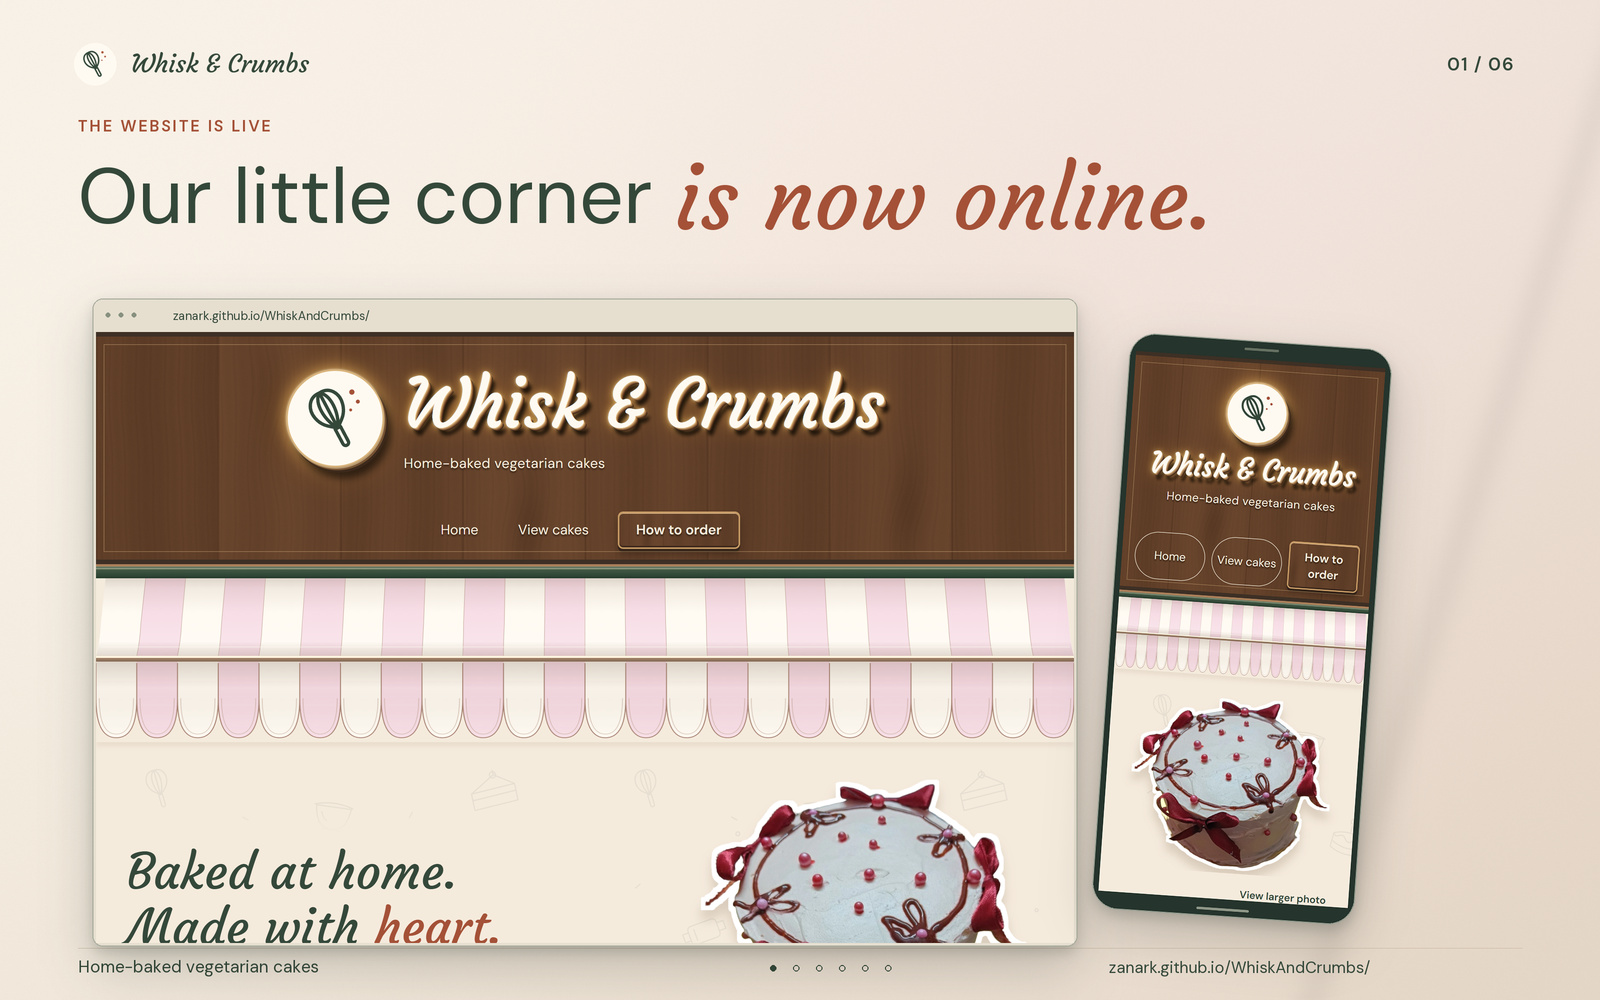
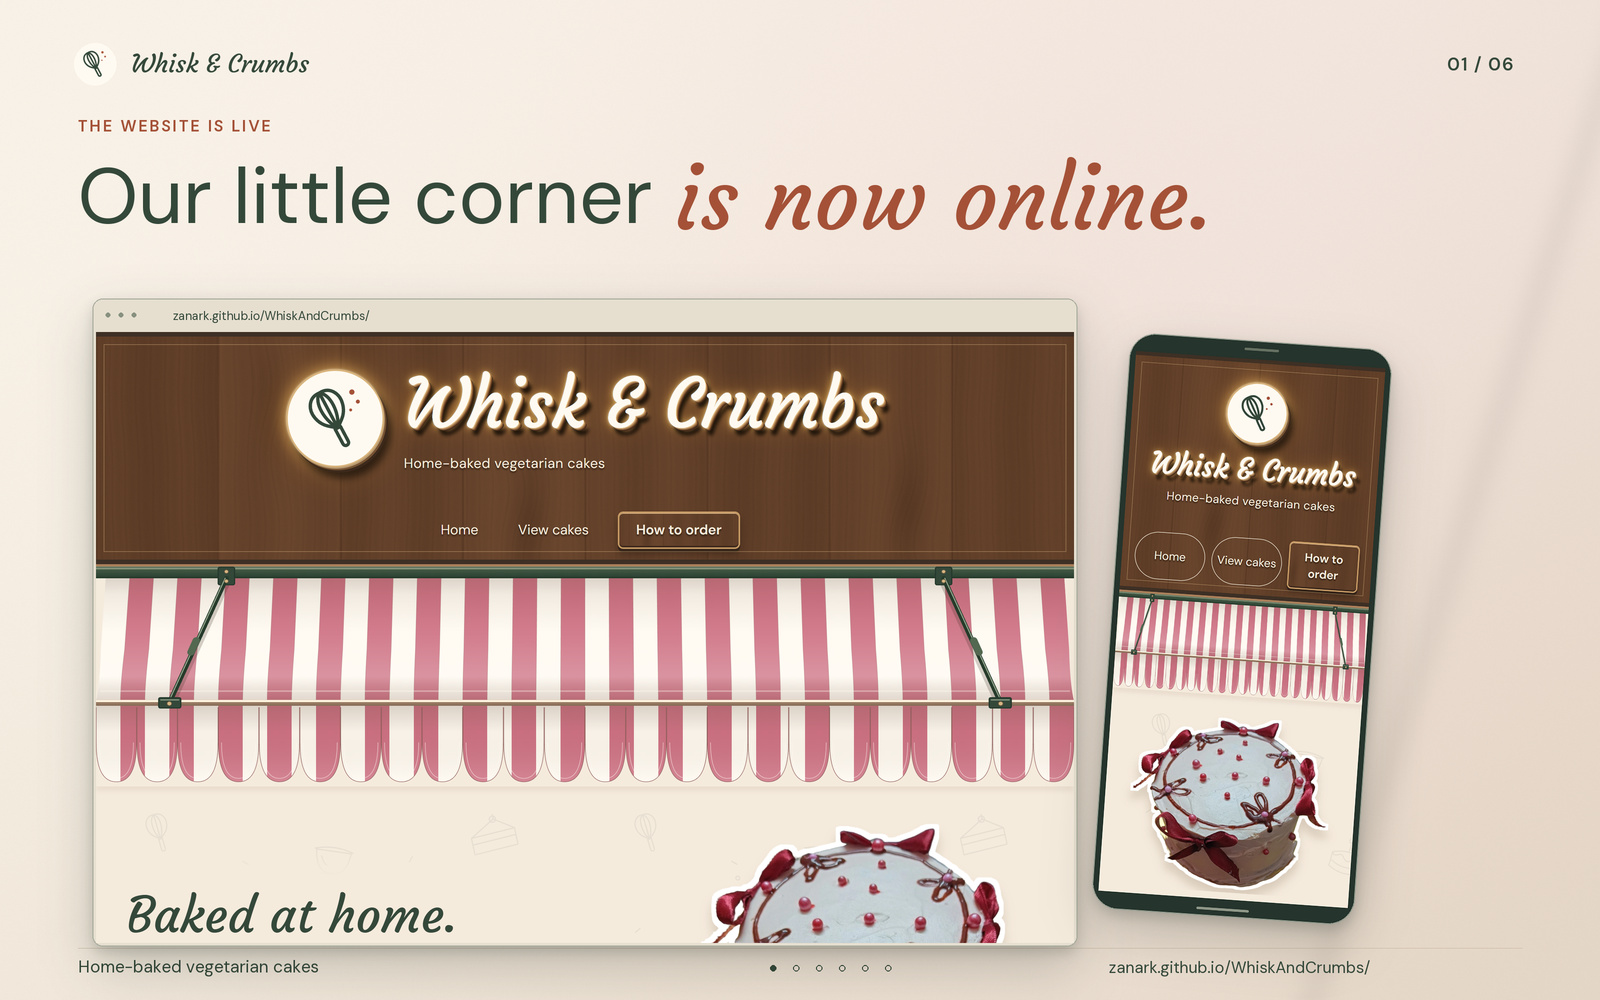
Add supported rose-striped canopy and optional phone tilt
Lengthen the sloping cloth, add forty rose/cream stripes and separate rigid tension supports, and correct alpha-edge filtering. Offer permission-gated calibrated phone look-around with safe cleanup and fallbacks. Preserve artwork, notebook and messaging data while refreshing the launch images.

Copilot-Session: 065222f9-e445-4b98-a549-e6948580c174

Changed region(s): [[0.0625, 0.558, 0.875, 0.961], [0.0625, 0.837, 0.3125, 0.961]]

diff --git a/site/index.html b/site/index.html
@@ -22,32 +22,32 @@
   <link rel="icon" href="assets/favicon.svg" type="image/svg+xml" sizes="any">
   <link rel="apple-touch-icon" href="assets/apple-touch-icon.png" sizes="180x180">
   <link rel="preload" href="assets/fonts/courgette-regular.ttf" as="font" type="font/ttf" crossorigin>
-  <link rel="stylesheet" href="styles.css?v=f5adedeeb7c7">
-  <link rel="stylesheet" href="entrance-shop.css?v=f5adedeeb7c7">
-  <link rel="stylesheet" href="cozy-bakery.css?v=f5adedeeb7c7">
-  <link rel="stylesheet" href="readability.css?v=f5adedeeb7c7">
-  <link rel="modulepreload" href="entrance.mjs?v=f5adedeeb7c7">
-  <link rel="modulepreload" href="bell.mjs?v=f5adedeeb7c7">
-  <link rel="modulepreload" href="notebooks.mjs?v=f5adedeeb7c7">
-  <script type="module" src="main.mjs?v=f5adedeeb7c7"></script>
+  <link rel="stylesheet" href="styles.css?v=ff6086d91be6">
+  <link rel="stylesheet" href="entrance-shop.css?v=ff6086d91be6">
+  <link rel="stylesheet" href="cozy-bakery.css?v=ff6086d91be6">
+  <link rel="stylesheet" href="readability.css?v=ff6086d91be6">
+  <link rel="modulepreload" href="entrance.mjs?v=ff6086d91be6">
+  <link rel="modulepreload" href="bell.mjs?v=ff6086d91be6">
+  <link rel="modulepreload" href="notebooks.mjs?v=ff6086d91be6">
+  <script type="module" src="main.mjs?v=ff6086d91be6"></script>
 </head>
 <body>
   <a class="skip-link" href="#main">Skip to cakes and ordering</a>
   <div id="bakery-entrance" class="bakery-entrance" data-state="pending" data-audio="waiting">
     <div class="entrance-art" aria-hidden="true">
       <div class="entrance-backdrop"></div>
-      <div class="entrance-shop" style="--facade-plaster:url('assets/bakery-facade-plaster.webp?v=f5adedeeb7c7');--sign-wood:url('assets/bakery-sign-wood.webp?v=f5adedeeb7c7')">
+      <div class="entrance-shop" style="--facade-plaster:url('assets/bakery-facade-plaster.webp?v=ff6086d91be6');--sign-wood:url('assets/bakery-sign-wood.webp?v=ff6086d91be6')">
         <div class="entrance-masonry"></div>
         <picture class="entrance-upper-storey">
-          <source media="(max-width: 600px)" srcset="assets/bakery-facade-upper-mobile.svg?v=f5adedeeb7c7">
-          <img src="assets/bakery-facade-upper.svg?v=f5adedeeb7c7" width="1200" height="360" alt="" decoding="async">
+          <source media="(max-width: 600px)" srcset="assets/bakery-facade-upper-mobile.svg?v=ff6086d91be6">
+          <img src="assets/bakery-facade-upper.svg?v=ff6086d91be6" width="1200" height="360" alt="" decoding="async">
         </picture>
         <div class="entrance-sign" data-brand="Whisk &amp; Crumbs">
           <img class="entrance-sign-mark" src="assets/whisk-and-crumbs-mark.svg" width="128" height="128" alt="">
           <span class="entrance-sign-copy"><span class="entrance-wordmark">Whisk &amp; Crumbs</span><span class="entrance-descriptor">Home-baked vegetarian cakes</span></span>
         </div>
         <span class="entrance-cornice"></span>
-        <div class="entrance-awning"><img src="assets/bakery-awning.svg?v=f5adedeeb7c7" width="1200" height="240" alt="" decoding="async"></div>
+        <div class="entrance-awning"><img src="assets/bakery-awning.svg?v=ff6086d91be6" width="1200" height="300" alt="" decoding="async"><span class="awning-supports" style="background-image:url('assets/bakery-awning-supports.svg?v=ff6086d91be6')"></span></div>
         <span class="entrance-pier entrance-pier-left"></span><span class="entrance-pier entrance-pier-right"></span>
         <div class="entrance-doorway">
           <div class="entrance-bell-mount"></div>
@@ -61,9 +61,9 @@
           <div class="entrance-doorframe">
             <div class="entrance-room">
               <picture class="entrance-room-poster">
-                <source media="(max-aspect-ratio: 4/5)" srcset="assets/bakery-interior-portrait.webp?v=f5adedeeb7c7">
-                <source media="(max-height: 600px)" srcset="assets/bakery-interior-short.webp?v=f5adedeeb7c7">
-                <img src="assets/bakery-interior-wide.webp?v=f5adedeeb7c7" width="1600" height="1000" alt="" decoding="async">
+                <source media="(max-aspect-ratio: 4/5)" srcset="assets/bakery-interior-portrait.webp?v=ff6086d91be6">
+                <source media="(max-height: 600px)" srcset="assets/bakery-interior-short.webp?v=ff6086d91be6">
+                <img src="assets/bakery-interior-wide.webp?v=ff6086d91be6" width="1600" height="1000" alt="" decoding="async">
               </picture>
             </div>
             <div class="entrance-fixed-bay entrance-fixed-bay-left"><span class="entrance-display-glass"></span><span class="entrance-bay-panel"></span></div>
@@ -93,17 +93,21 @@
         </div>
         <span class="entrance-threshold"></span>
         <span class="entrance-step"></span>
-        <img class="entrance-pavement" src="assets/bakery-facade-ground.svg?v=f5adedeeb7c7" width="1200" height="140" alt="" decoding="async">
+        <img class="entrance-pavement" src="assets/bakery-facade-ground.svg?v=ff6086d91be6" width="1200" height="140" alt="" decoding="async">
       </div>
     </div>
     <a id="entrance-enter" class="entrance-enter" href="#home" aria-label="Open the bakery doors and enter">
       <span>Click anywhere to enter</span>
     </a>
-    <a id="entrance-skip" class="entrance-skip" href="#home">Skip entrance</a>
+    <div class="entrance-tools">
+      <button id="entrance-motion" class="entrance-motion" type="button" aria-pressed="false" aria-describedby="entrance-motion-status" hidden>Phone tilt</button>
+      <a id="entrance-skip" class="entrance-skip" href="#home">Skip entrance</a>
+    </div>
+    <p id="entrance-motion-status" class="visually-hidden" role="status" aria-live="polite"></p>
   </div>
   <noscript><style>.bakery-entrance { display: none !important; }</style></noscript>
   <header class="site-header">
-    <div class="shop-sign" style="--sign-wood:url('assets/bakery-sign-wood.webp?v=f5adedeeb7c7')">
+    <div class="shop-sign" style="--sign-wood:url('assets/bakery-sign-wood.webp?v=ff6086d91be6')">
       <div class="container header-inner">
         <a class="brand" href="#home" aria-label="Whisk &amp; Crumbs - home">
           <img src="assets/whisk-and-crumbs-mark.svg" width="128" height="128" alt="">
@@ -117,7 +121,7 @@
       </nav>
     </div>
   </header>
-  <div class="site-awning" aria-hidden="true"><img src="assets/bakery-awning.svg?v=f5adedeeb7c7" width="1200" height="240" alt="" decoding="async"></div>
+  <div class="site-awning" aria-hidden="true"><img src="assets/bakery-awning.svg?v=ff6086d91be6" width="1200" height="300" alt="" decoding="async"><span class="awning-supports" style="background-image:url('assets/bakery-awning-supports.svg?v=ff6086d91be6')"></span></div>
 
   <main id="main" tabindex="-1">
     <section class="hero-section" id="home" aria-labelledby="hero-title">
@@ -720,7 +724,7 @@
         </div>
       </div>
     </section>
-    <div class="bakery-shelf" aria-hidden="true"><img src="assets/bakery-shelf.svg?v=f5adedeeb7c7" width="960" height="120" alt="" loading="lazy" decoding="async"></div>
+    <div class="bakery-shelf" aria-hidden="true"><img src="assets/bakery-shelf.svg?v=ff6086d91be6" width="960" height="120" alt="" loading="lazy" decoding="async"></div>
   </main>
 
   <footer class="container site-footer">

diff --git a/site/entrance-shop.css b/site/entrance-shop.css
@@ -1,9 +1,10 @@
-.site-awning { --awning-fabric-ready: 1; position: relative; z-index: 1; width: 100%; height: clamp(120px, 18vw, 270px); background: var(--cream); pointer-events: none; }
+.site-awning { --awning-fabric-ready: 1; position: relative; z-index: 1; width: 100%; height: clamp(150px, 22.5vw, 337.5px); background: var(--cream); pointer-events: none; }
 .site-awning img { width: 100%; max-width: none; height: 100%; object-fit: fill; }
 .awning-fabric { position: absolute; inset: -20px 0; width: 100%; height: calc(100% + 40px); pointer-events: none; }
 .awning-fixed-rail { position: absolute; inset: 0; background-size: 100% 100%; background-repeat: no-repeat; pointer-events: none; }
 .site-awning.is-fabric-active > img { opacity: 0; }
-.entrance-art { padding: 82px clamp(12px, 4vw, 72px) 100px; }
+.awning-supports { position: absolute; z-index: 3; inset: 0; background-size: 100% 100%; background-repeat: no-repeat; pointer-events: none; }
+.entrance-art { padding: max(82px, var(--entrance-tools-space, 0px)) clamp(12px, 4vw, 72px) 100px; }
 .entrance-backdrop { inset: 0; transform: none; transition: none; background: radial-gradient(ellipse at 24% 18%, #fff8e9, transparent 62%), linear-gradient(#f5ebdd 72%, #e6dac3); }
 .entrance-shop { display: block; width: min(1100px, 100%); height: min(790px, 100%); transform: none; transition: none; isolation: isolate; container-type: size; }
 .bakery-entrance.is-entering .entrance-shop { animation: none; }
@@ -63,7 +64,7 @@
 .entrance-step { position: absolute; z-index: 3; left: 8%; right: 8%; bottom: 6.7%; height: 2.5%; background: linear-gradient(#e6d8bc, #cfbd9f 48%, #a89172 52%, #b9a283); border: 1px solid #b8a180; box-shadow: 0 4px 3px rgb(55 45 32 / 18%); }
 .entrance-pavement { position: absolute; z-index: 2; bottom: 0; left: 0; width: 100%; height: 14%; object-fit: fill; pointer-events: none; }
 @media (max-width: 600px) {
-  .entrance-art { padding: max(84px, calc(2.5rem + 16px)) 12px max(112px, calc(6.25rem - 12px)); }
+  .entrance-art { padding: max(84px, calc(2.5rem + 16px), var(--entrance-tools-space, 0px)) 12px max(112px, calc(6.25rem - 12px)); }
   .entrance-shop { width: 100%; height: min(770px, 100%); }
   .entrance-upper-storey { height: 27%; }
   .entrance-masonry { top: 24%; left: 3%; right: 3%; }
@@ -80,7 +81,7 @@
   .entrance-door-right { right: 0; }
   .entrance-fixed-bay { display: none; }
   .entrance-glass { inset-inline: 5px; border-radius: 6px 6px 2px 2px; }
-  .entrance-open-sign { width: min(96px, calc(100% - 12px)); }
+  .entrance-open-sign { width: min(90px, calc(100% - 12px)); }
   .entrance-bell { width: 32px; height: 34px; left: calc(50% - 16px); top: 0; }
   .entrance-pier { top: 40%; width: 3%; }
   .entrance-pier-left { left: 3%; }
@@ -89,7 +90,7 @@
   .entrance-step { left: 3%; right: 3%; }
 }
 @media (max-height: 600px) {
-  .entrance-art { padding-top: max(74px, calc(2.5rem + 16px)); padding-bottom: 104px; }
+  .entrance-art { padding-top: max(74px, calc(2.5rem + 16px), var(--entrance-tools-space, 0px)); padding-bottom: 104px; }
   .entrance-shop { width: min(800px, 100%); }
   .entrance-upper-storey { height: 24%; }
   .entrance-sign { top: 23%; height: 17%; padding-block: 4px; }
@@ -132,8 +133,11 @@
   .entrance-open-sign .open-sign-cord { height: 5px; }
   .open-sign-board { padding-block: 0; }
 }
-@media (prefers-reduced-motion: reduce), (forced-colors: active), (hover: none) {
+@media (prefers-reduced-motion: reduce), (forced-colors: active) {
   .entrance-room-poster { transform: none; transition: none; }
+}
+@media (hover: none) {
+  .bakery-entrance:not([data-tilt-view="on"]) .entrance-room-poster { transform: none; transition: none; }
 }
 @media print {
   .site-awning, .bakery-entrance { display: none; }

diff --git a/site/styles.css b/site/styles.css
@@ -360,8 +360,11 @@ body.has-notebook-dialog .mobile-enquire { display: none; }
 .entrance-enter { position: absolute; inset: 0; z-index: 3; display: flex; align-items: flex-end; justify-content: center; padding: 24px; }
 .entrance-enter > span { display: inline-flex; align-items: center; justify-content: center; min-height: 52px; padding: 12px 24px; border: 1px solid var(--green); border-radius: 999px; background: var(--paper); color: var(--green); box-shadow: 0 5px 0 rgb(52 72 58 / 13%); font: 600 1rem/1.4 var(--sans); }
 .entrance-enter:hover > span { background: var(--wash); }
-.entrance-skip { position: absolute; z-index: 4; top: 18px; right: 20px; display: inline-flex; align-items: center; justify-content: center; min-height: 48px; padding: 11px 18px; border: 1px solid var(--green); border-radius: 999px; background: var(--paper); color: var(--green); font: 600 1rem/1.4 var(--sans); }
-.entrance-skip:hover { background: var(--wash); }
+.entrance-tools { position: absolute; z-index: 4; top: 18px; left: 20px; right: 20px; display: flex; flex-wrap: wrap; justify-content: flex-end; align-items: flex-start; gap: 8px; pointer-events: none; }
+.entrance-skip, .entrance-motion { display: inline-flex; align-items: center; justify-content: center; max-width: 100%; min-height: 48px; padding: 11px 18px; border: 1px solid var(--green); border-radius: 999px; background: var(--paper); color: var(--green); font: 600 1rem/1.4 var(--sans); pointer-events: auto; }
+.entrance-motion { margin-right: auto; }
+.entrance-motion[aria-pressed="true"] { background: var(--green); color: var(--paper); }
+.entrance-skip:hover, .entrance-motion:not([aria-pressed="true"]):hover { background: var(--wash); }
 html:has(:target) .bakery-entrance { display: none; }
 .bakery-entrance.is-entering { animation: entrance-dismiss .12s linear 1.68s forwards; }
 .bakery-entrance.is-entering .entrance-backdrop { animation: entrance-backdrop-fade .55s ease-out .7s both; }
@@ -370,7 +373,8 @@ html:has(:target) .bakery-entrance { display: none; }
 .bakery-entrance.is-entering .entrance-doorframe::before { animation: entrance-backdrop-fade .5s ease-out .75s both; }
 .bakery-entrance.is-entering .entrance-door-left { animation: entrance-open-left .95s cubic-bezier(.4, 0, .2, 1) .08s both; }
 .bakery-entrance.is-entering .entrance-door-right { animation: entrance-open-right .95s cubic-bezier(.4, 0, .2, 1) .08s both; }
-.bakery-entrance.is-entering .entrance-enter, .bakery-entrance.is-entering .entrance-skip { pointer-events: none; opacity: 0; transition: opacity .12s; }
+.bakery-entrance.is-entering .entrance-enter, .bakery-entrance.is-entering .entrance-tools { pointer-events: none; opacity: 0; transition: opacity .12s; }
+.bakery-entrance.is-entering .entrance-tools > * { pointer-events: none; }
 @keyframes entrance-open-left { from { transform: rotateY(0); } to { transform: rotateY(-106deg); } }
 @keyframes entrance-open-right { from { transform: rotateY(0); } to { transform: rotateY(106deg); } }
 @keyframes entrance-bell-swing { 0%, 100% { transform: rotate(0); } 15% { transform: rotate(18deg); } 35% { transform: rotate(-15deg); } 55% { transform: rotate(10deg); } 75% { transform: rotate(-5deg); } }

diff --git a/README.md b/README.md
@@ -1,11 +1,11 @@
-[![Our little corner is now online: real desktop and mobile views of the glowing wooden sign, matching wood navigation and raised wooden ordering button above the cloth canopy.](site/assets/showcase/01-welcome.jpg?v=f203292be992)](https://zanark.github.io/WhiskAndCrumbs/)
+[![Our little corner is now online: real desktop and mobile views of the glowing wooden sign and wood navigation above the longer rose-striped canopy and its fixed metal supports.](site/assets/showcase/01-welcome.jpg?v=8fd807d73b75)](https://zanark.github.io/WhiskAndCrumbs/)
 
-[![Come on in: desktop and mobile views of the complete painted bakery building, with roof and upper windows, glowing wood fascia, recessed glazing and a grounded paved entrance.](site/assets/showcase/02-bakery-entrance.jpg?v=1887cffdbb77)](https://zanark.github.io/WhiskAndCrumbs/)
+[![Come on in: current desktop and mobile views of the painted bakery building, supported rose-striped canopy, glowing wooden fascia and optional Phone tilt control.](site/assets/showcase/02-bakery-entrance.jpg?v=40e39b16c877)](https://zanark.github.io/WhiskAndCrumbs/)
 
-[![A little care in every layer: current desktop story and mobile recipe-note views, with cream editorial typography and slim device framing.](site/assets/showcase/03-our-story.jpg?v=7162e8d667c0)](https://zanark.github.io/WhiskAndCrumbs/#story)
+[![A little care in every layer: current desktop story and mobile recipe-note views, with cream editorial typography and slim device framing.](site/assets/showcase/03-our-story.jpg?v=e384cc315b6e)](https://zanark.github.io/WhiskAndCrumbs/#story)
 
-[![Find your kind of cake: current desktop and mobile views of extra-pale pink notebooks, real cake stickers and outside-only pastel cover tabs.](site/assets/showcase/04-cake-notebooks.jpg?v=465601f013d5)](https://zanark.github.io/WhiskAndCrumbs/#cakes)
+[![Find your kind of cake: current desktop and mobile views of extra-pale pink notebooks, real cake stickers and outside-only pastel cover tabs.](site/assets/showcase/04-cake-notebooks.jpg?v=4b88df24329a)](https://zanark.github.io/WhiskAndCrumbs/#cakes)
 
-[![Take a closer look: the actual four-photo Decorated cakes notebook with larger text and controls protruding beyond its visible paper, in complete desktop and mobile viewports.](site/assets/showcase/05-open-notebook.jpg?v=8da7ad82c966)](https://zanark.github.io/WhiskAndCrumbs/#cakes)
+[![Take a closer look: the actual four-photo Decorated cakes notebook with larger text and controls protruding beyond its visible paper, in complete desktop and mobile viewports.](site/assets/showcase/05-open-notebook.jpg?v=a8fc09705117)](https://zanark.github.io/WhiskAndCrumbs/#cakes)
 
-[![Your next cake starts with hello: current desktop and mobile ordering views in a forest-green website-launch composition.](site/assets/showcase/06-simple-ordering.jpg?v=c2a6f6402cc3)](https://zanark.github.io/WhiskAndCrumbs/#order)
+[![Your next cake starts with hello: current desktop and mobile ordering views in a forest-green website-launch composition.](site/assets/showcase/06-simple-ordering.jpg?v=0648bb00dbf3)](https://zanark.github.io/WhiskAndCrumbs/#order)

diff --git a/ABOUT.md b/ABOUT.md
@@ -24,13 +24,22 @@ Golden sunlight enters through the side window, with window-frame shadows,
 soft contact shading and warm reflected light baked from the room's geometry.
 The display cabinet reaches the floor; its cakes, shelves and shadows share one
 perspective. Mouse movement gives a much stronger look around the room while the
-outer storefront stays steady. Touch keeps a centered view, and static illustrations
-from the same room remain available without the graphics enhancement.
+outer storefront stays steady. Phones start with a centered view.
+On supported phones, tap **Phone tilt**, allow motion access if asked, and hold the
+phone comfortably while it calibrates. Gentle tilting then controls the same
+look-around; tap **Tilt on** to turn it off. Motion stops when you enter, skip,
+leave the page or enable reduced motion. The website uses motion readings locally
+and does not save or upload them. Browser support and permission policies vary;
+ordinary entry and Skip remain available if tilt cannot start.
+Static illustrations from the same room remain available without the graphics enhancement.
 This is decorative illustration, not a photograph of physical premises or an additional menu.
 A small cream-and-green **We are OPEN** plaque hangs behind the right door's
 glass, with a small cord and brass details. It moves with the door, not the room camera.
 It is a welcoming illustration, not a business-hours notice.
-A taller sloped striped canopy with a deeper hanging scalloped edge frames the entrance.
+A longer sloping canopy with forty narrower reddish-pink and cream stripes frames
+the entrance. Its deep scalloped edge is retained. Visible bolted wall brackets
+and angled tension rods support the projecting front bar; they stay rigid while
+the cloth moves.
 Wide layouts have fixed display bays beside the paired doors. Narrow layouts keep
 the doorway and a separately composed upper floor, rather than squeezing all the
 wide-building details into the same space.
@@ -144,7 +153,7 @@ The display name is **Whisk & Crumbs**. The owner renamed the repository to
 [Zanark/WhiskAndCrumbs](https://github.com/Zanark/WhiskAndCrumbs).
 The website is **https://zanark.github.io/WhiskAndCrumbs/**.
 
-GitHub Pages publishes only the **174 generated files in `site/`**, including the
+GitHub Pages publishes only the **175 generated files in `site/`**, including the
 category-notebook module, original decorative shop artwork and six landscape website showcase images.
 The image-only README links six coordinated launch images to the website. Each
 uses real, complete desktop and mobile browser viewport captures, with original
